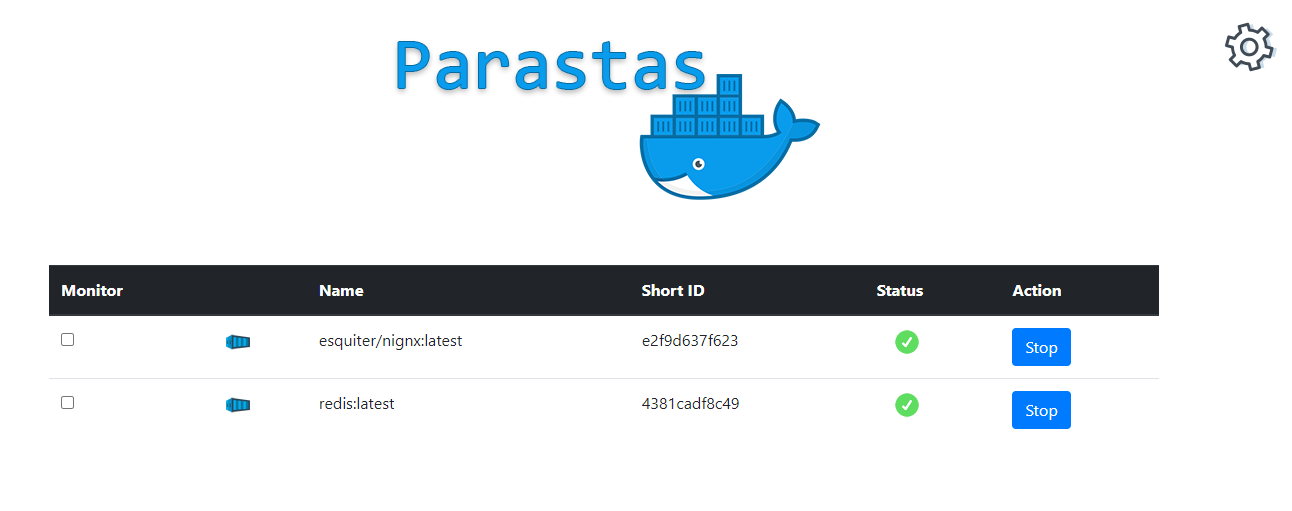
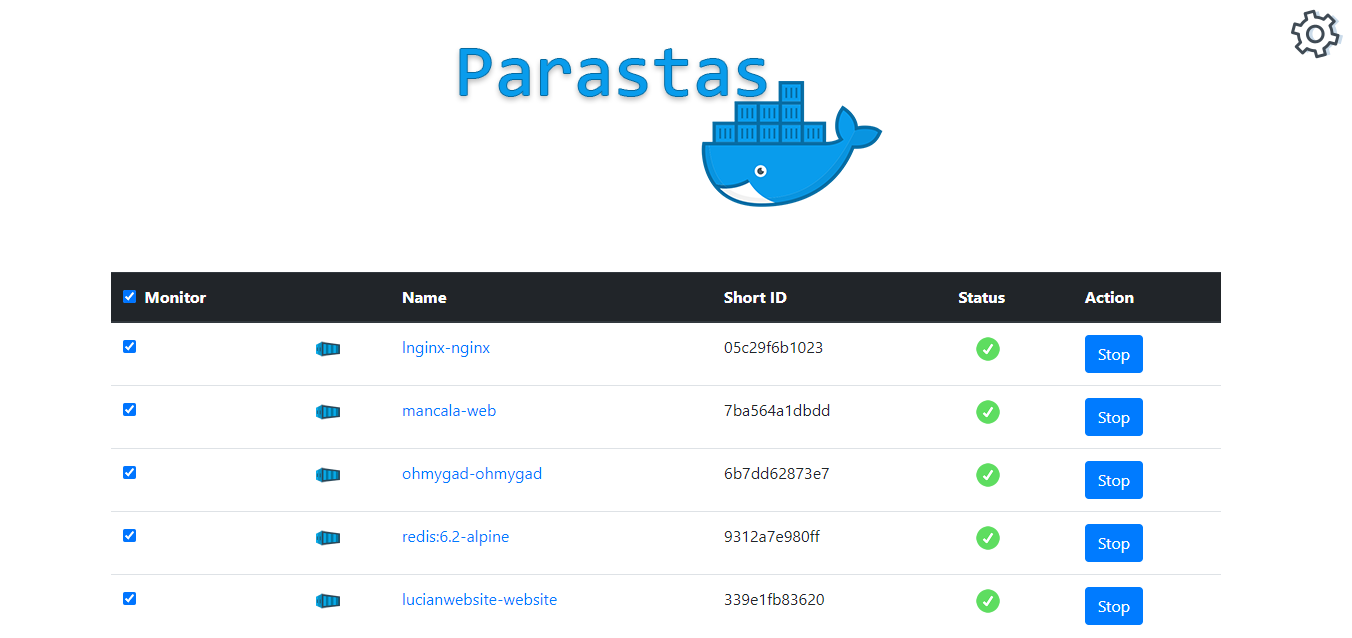
Update frontend to get container list async.

diff --git a/src/main/resources/templates/index.html b/src/main/resources/templates/index.html
@@ -10,9 +10,26 @@
         <div class="logo">
             <a href="/"><img th:src="@{/images/logo.png}" alt="Logo"></a>
         </div>
-        <div th:include="~{fragments/container-list :: container-list}">
-            Loading...
+
+        <div class="container-list">
+            <table class="table">
+                <thead class="thead-dark">
+                    <tr>
+                        <th><input type="checkbox" onclick="onToggleAll()" th:checked="${allWatched}"> &nbsp;Monitor</th>
+                        <th></th>
+                        <th>Name</th>
+                        <th>Short ID</th>
+                        <th>Status</th>
+                        <th>Action</th>
+                    </tr>
+                </thead>
+                <tbody id="table-id">
+                    <!-- This is where the containers are filled in -->
+                </tbody>
+            </table>
+            <div class="loading"><img th:src="@{/images/loading.gif}" alt="Loading" id="loading"></div>
         </div>
+
         <a href="/settings" class="settings-link">
             <img th:src="@{/images/settings64.png}" alt="Settings">
         </a>
@@ -22,6 +39,41 @@
     <script src="https://cdnjs.cloudflare.com/ajax/libs/popper.js/1.12.9/umd/popper.min.js"></script>
     <script src="https://maxcdn.bootstrapcdn.com/bootstrap/4.0.0/js/bootstrap.min.js"></script>
     <script>
+        var containerFetchPollingInterval;
+
+        function updateContainerList() {
+            $.get("/containers", function(data) {
+                updateContainerListUI(data);
+            });
+        }
+
+        function updateContainerListUI(containerData) {
+            if (Object.keys(containerData).length > 0) {
+                $("#loading").hide();
+                clearInterval(containerFetchPollingInterval);
+            }
+            var tableBody = $(".container-list table tbody");
+            tableBody.empty();
+
+            for (var containerName in containerData) {
+                var containerInfo = containerData[containerName];
+                var shortID = Object.keys(containerInfo)[0];
+                var containerStatus = containerInfo[shortID];
+                var row = $("<tr></tr>");
+                row.append("<td><input type='checkbox' id='" + shortID + "'></td>");
+                row.append("<td><img src='/images/container48.png' alt='Container Icon' width='24' height='24'></td>");
+                row.append("<td><a href='/container/" + shortID + "/logs/15'>" + containerName + "</a></td>");
+                row.append("<td>" + shortID + "</td>");
+                row.append("<td><img src='" + (containerStatus ? '/images/green_tickbox.png' : '/images/red_crossmark.png') + "' " +
+                        "alt='Status Icon' class='status-icon' title='" + (containerStatus ? 'Container is up' : 'Container is down') + "' " +
+                        "id='status_icon_" + shortID + "'></td>");
+                row.append("<td><button onclick='toggleStatus(\"" + shortID + "\")' class='btn btn-primary' id='action_button_" + shortID + "'>" +
+                        (containerStatus ? 'Stop' : 'Start') + "</button></td>");
+
+                tableBody.append(row);
+            }
+        }
+
         function selectClick(container) {
             window.location.href = "/container/" + container + "/toggleSelect";
         }
@@ -35,54 +87,42 @@
         }
 
         function updateContainerStatus(containerId) {
-        fetch(`/container/${containerId}/status`)
-            .then(response => response.text())
-            .then(status => {
-                const statusIcon = document.getElementById(`status_icon_${containerId}`);
-                const actionButton = document.getElementById(`action_button_${containerId}`);
+            fetch(`/container/${containerId}/status`)
+                .then(response => response.text())
+                .then(status => {
+                    const statusIcon = document.getElementById(`status_icon_${containerId}`);
+                    const actionButton = document.getElementById(`action_button_${containerId}`);
 
-                if (status === "true") {
-                    statusIcon.src = "/images/green_tickbox.png";
-                    statusIcon.title = "Container is up";
-                    actionButton.innerText = "Stop";
-                } else {
-                    statusIcon.src = "/images/red_crossmark.png";
-                    statusIcon.title = "Container is down";
-                    actionButton.innerText = "Start";
-                }
-            })
-            .catch(error => {
-                console.error(`Error updating container ${containerId} status: ${error}`);
-            });
-    }
+                    if (status === "true") {
+                        statusIcon.src = "/images/green_tickbox.png";
+                        statusIcon.title = "Container is up";
+                        actionButton.innerText = "Stop";
+                    } else {
+                        statusIcon.src = "/images/red_crossmark.png";
+                        statusIcon.title = "Container is down";
+                        actionButton.innerText = "Start";
+                    }
+                })
+                .catch(error => {
+                    console.error(`Error updating container ${containerId} status: ${error}`);
+                });
+        }
 
-        // Function to start polling container status for all containers
-        function startPolling() {
+        function updateContainersStatus() {
             const containerIds = [];
-             // Loop through each container row and extract the container ID
             document.querySelectorAll("[id^='status_icon_']").forEach(element => {
                 const containerId = element.getAttribute("id").replace("status_icon_", "");
                 containerIds.push(containerId);
             });
             containerIds.forEach(id => {
                 updateContainerStatus(id);
-                setInterval(() => updateContainerStatus(id), 5000); // Poll every 5 seconds
             });
         }
 
-        function updateContainerList() {
-            $.get("/containers", function(data) {
-                $("#container-list").html(data);
-            });
-        }
-
-        // Call updateContainerList when the page is loaded
         $(document).ready(function() {
-            updateContainerList();
+            setInterval(updateContainersStatus, 5000); // Poll every 5 seconds for container status updates
+            containerFetchPollingInterval = setInterval(updateContainerList, 500); // Poll every half second until we get data
         });
-
-        // Start polling on page load
-        startPolling();
     </script>
 </body>
 </html>

diff --git a/src/main/resources/static/css/style.css b/src/main/resources/static/css/style.css
@@ -9,6 +9,13 @@ body {
     margin-bottom: 50px;
 }
 
+.loading {
+    display: flex;
+    justify-content: center;
+    margin-top: 20px;
+    margin-bottom: 50px;
+}
+
 .settings-link {
     position: absolute;
     top: 20px;

diff --git a/src/main/java/online/lucianmusat/Parastas/controllers/MainController.java b/src/main/java/online/lucianmusat/Parastas/controllers/MainController.java
@@ -90,6 +90,7 @@ public class MainController {
             deferredResult.setResult("index");
         });
 
+        deferredResult.setResult("index");
         return deferredResult;
     }
 
@@ -245,13 +246,13 @@ public class MainController {
 
     @GetMapping("/containers")
     @ResponseBody
-    public String getContainers(Model model) {
+    public Map<String, Map<String, Boolean>> getContainers(Model model) {
         containers.entrySet().removeIf(entry -> entry.getKey().name().contains("parastas"));
-        cleanWatchedContainers();
-        updateWatchedContainers();
-        updateExecutorSettings();
-        updateModels(model);
-        return "fragments/container-list";
+        return containers.entrySet().stream()
+            .collect(Collectors.toMap(
+                entry -> entry.getKey().name(),
+                entry -> (Map<String, Boolean>) Map.of(entry.getKey().shortID(), entry.getValue())
+            ));
     }
 
 }

diff --git a/README.md b/README.md
@@ -29,7 +29,7 @@ If everything is ok you should see the list of running docker containers. Check 
  - [X] Add error page
  - [X] Add auth
  - [X] List docker containers async, to speed up pageload
- - [ ] Add loading animation instead of plain old text
+ - [X] Add loading animation instead of plain old text
  - [ ] Add favicon
  - [ ] Add tests (in progress)
  - [ ] Add browser side rendering
